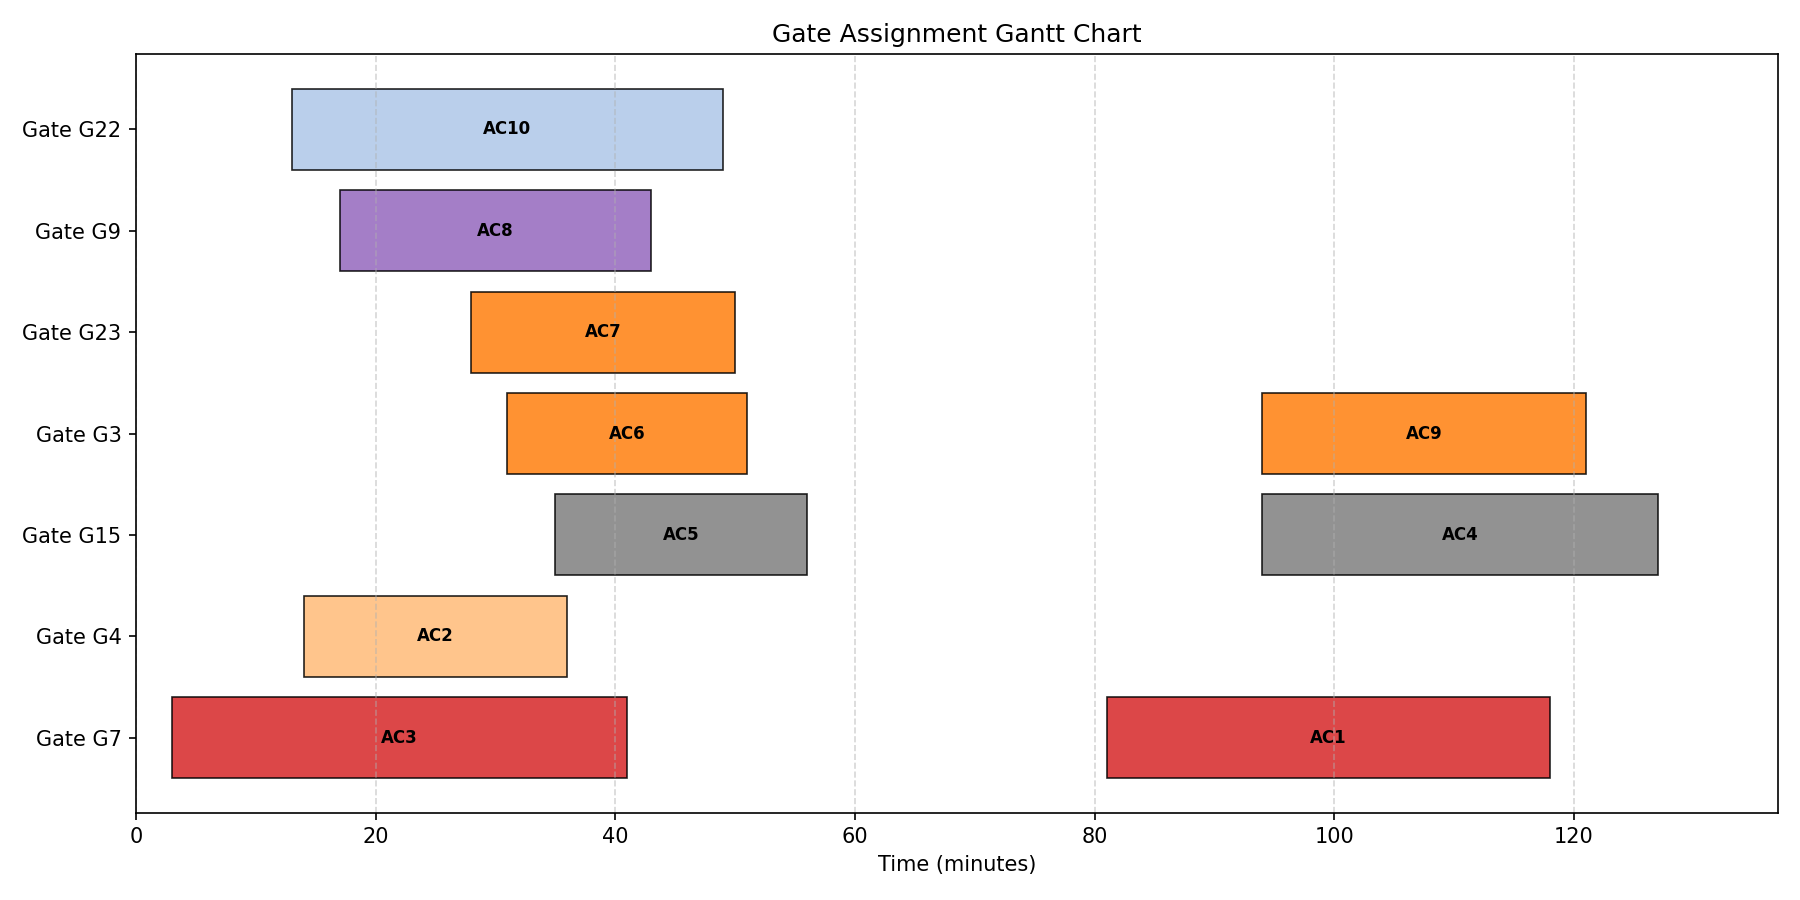
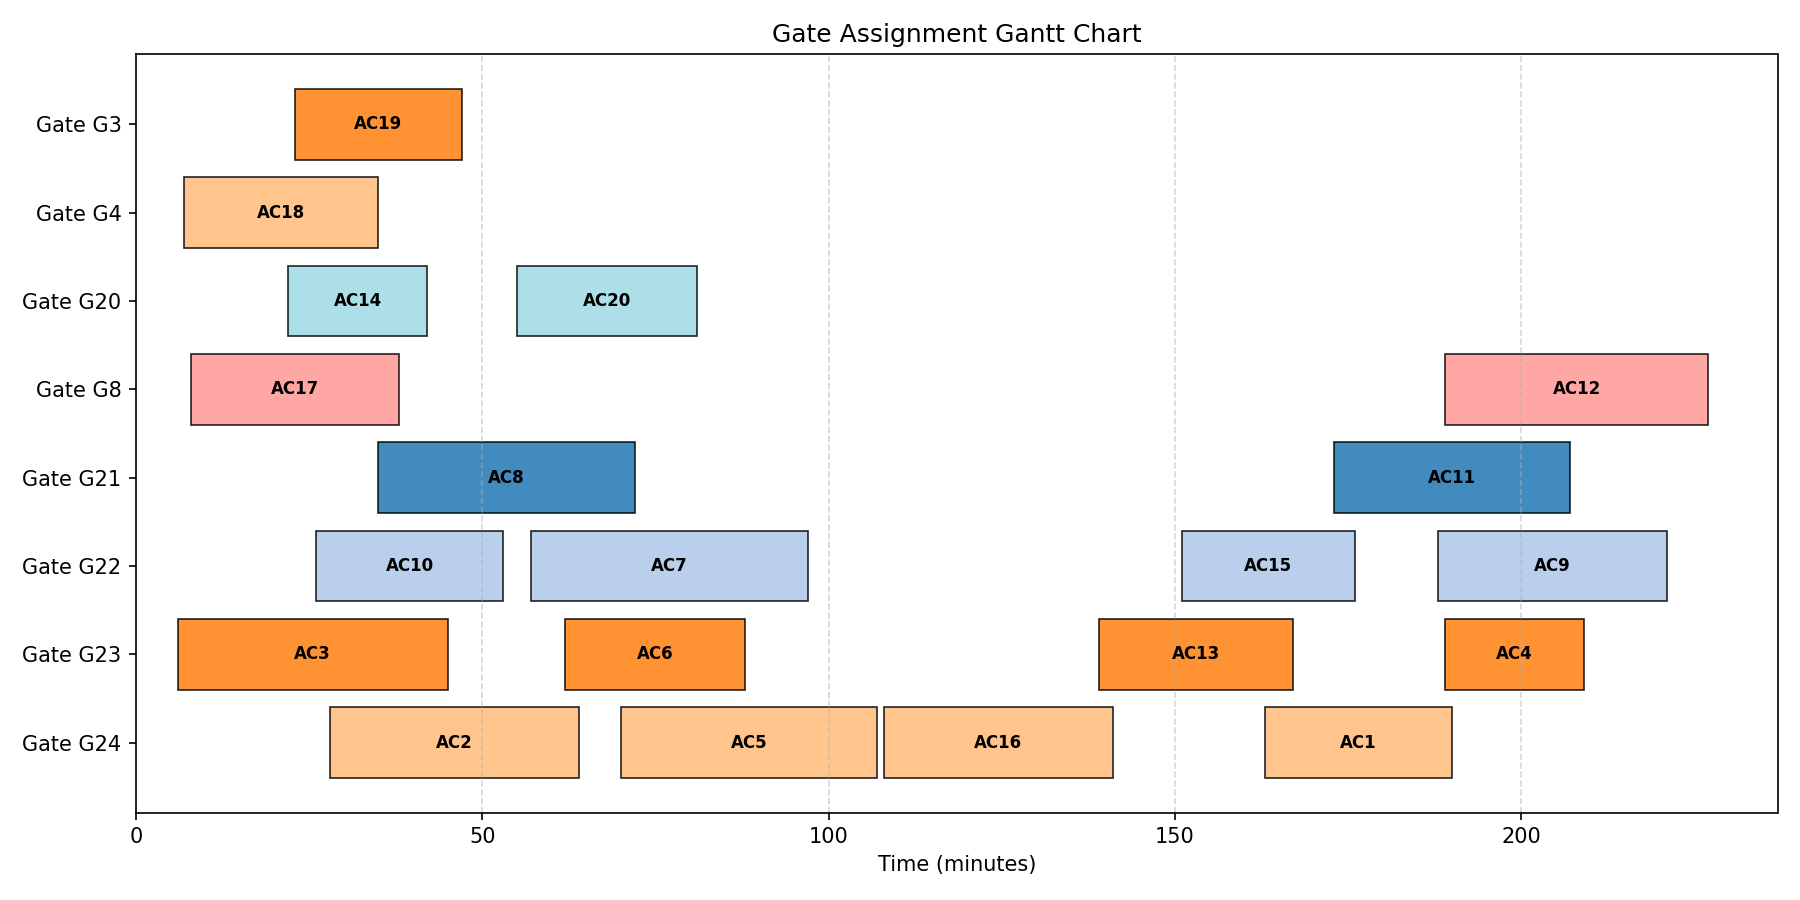
idk

diff --git a/main.py b/main.py
@@ -3,11 +3,12 @@ import random
 import itertools
 
 random.seed(42)
-n_aircraft = 20
+n_gates = 24
+n_aircraft = 10
 aircraft = list(range(1, n_aircraft + 1))
 
 # Schedules
-arrival = {i: random.randint(0, 200) for i in aircraft}
+arrival = {i: random.randint(0, 100) for i in aircraft}
 turnaround = {i: random.randint(20, 40) for i in aircraft}
 departure = {i: arrival[i] + turnaround[i] for i in aircraft}
 aircraft_size = {i: random.choices(('wide', 'narrow'), (0.3, 0.7)) for i in aircraft}
